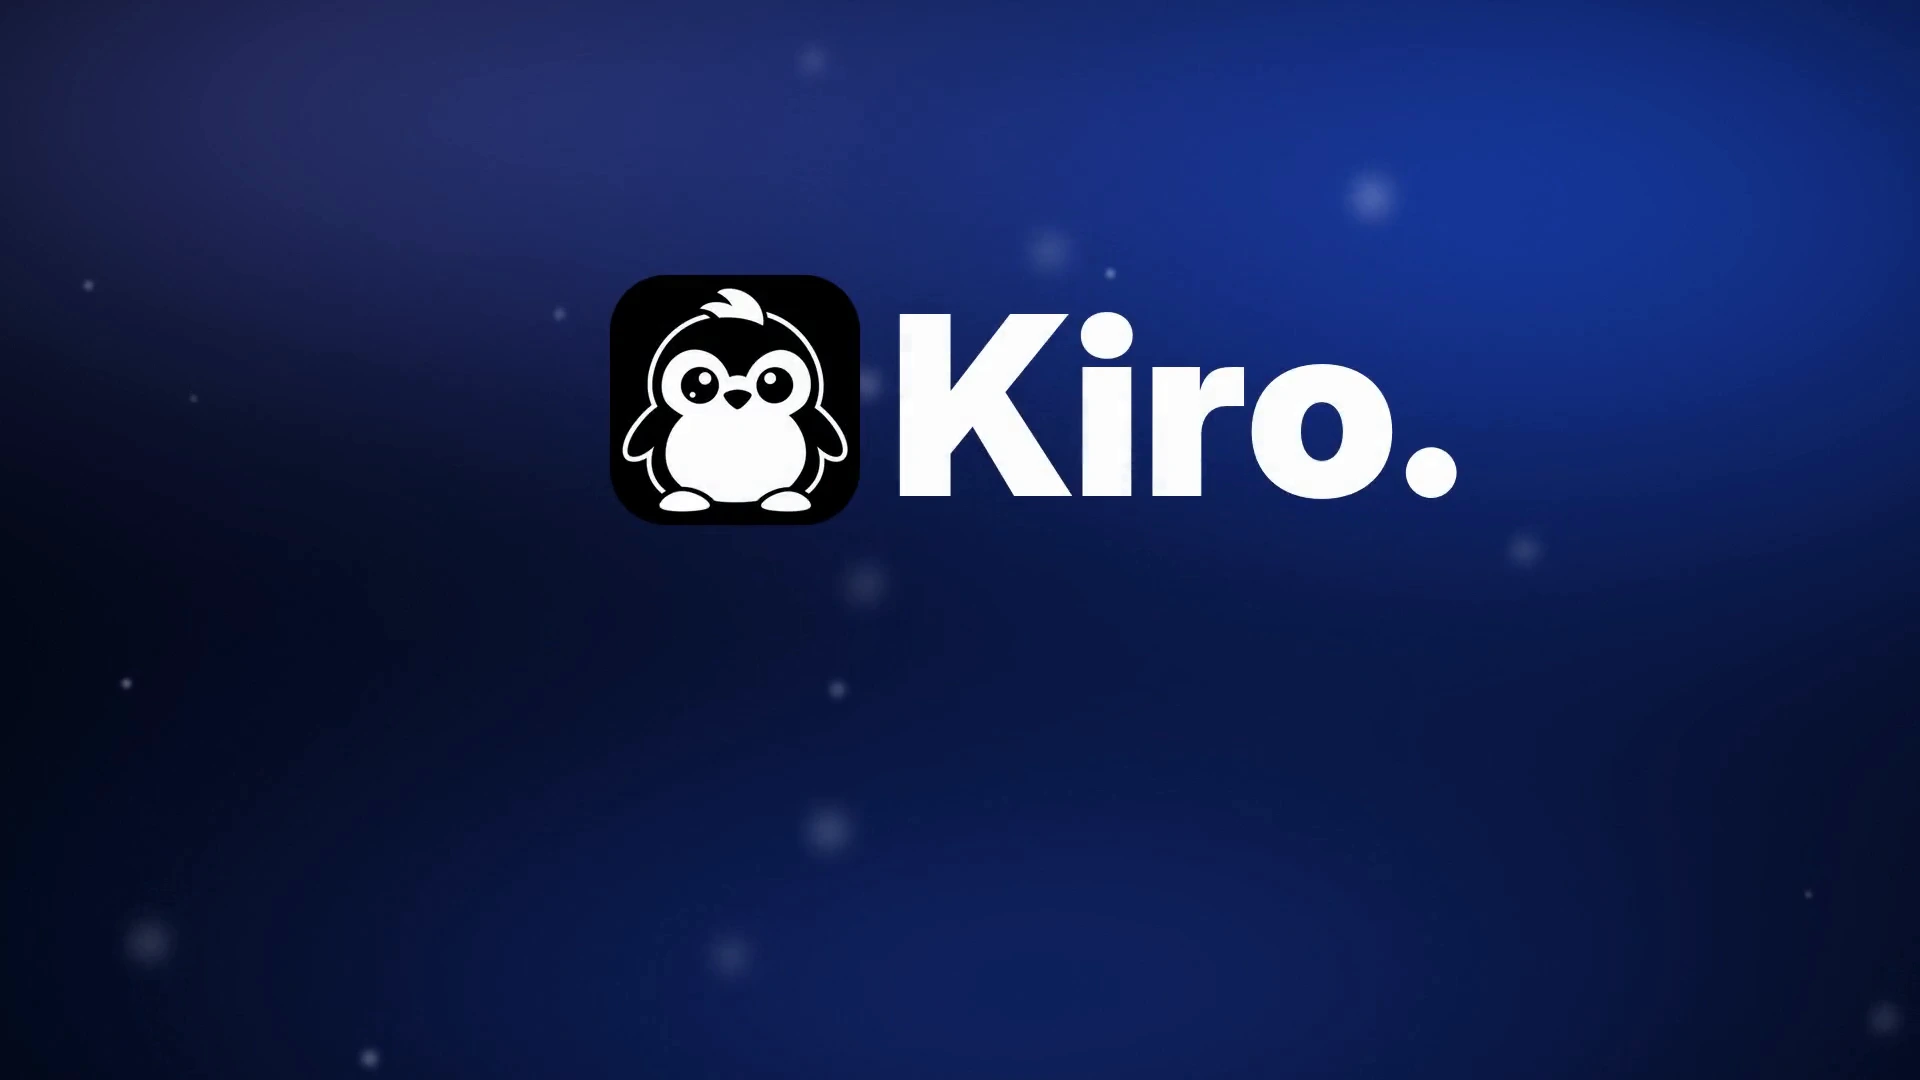
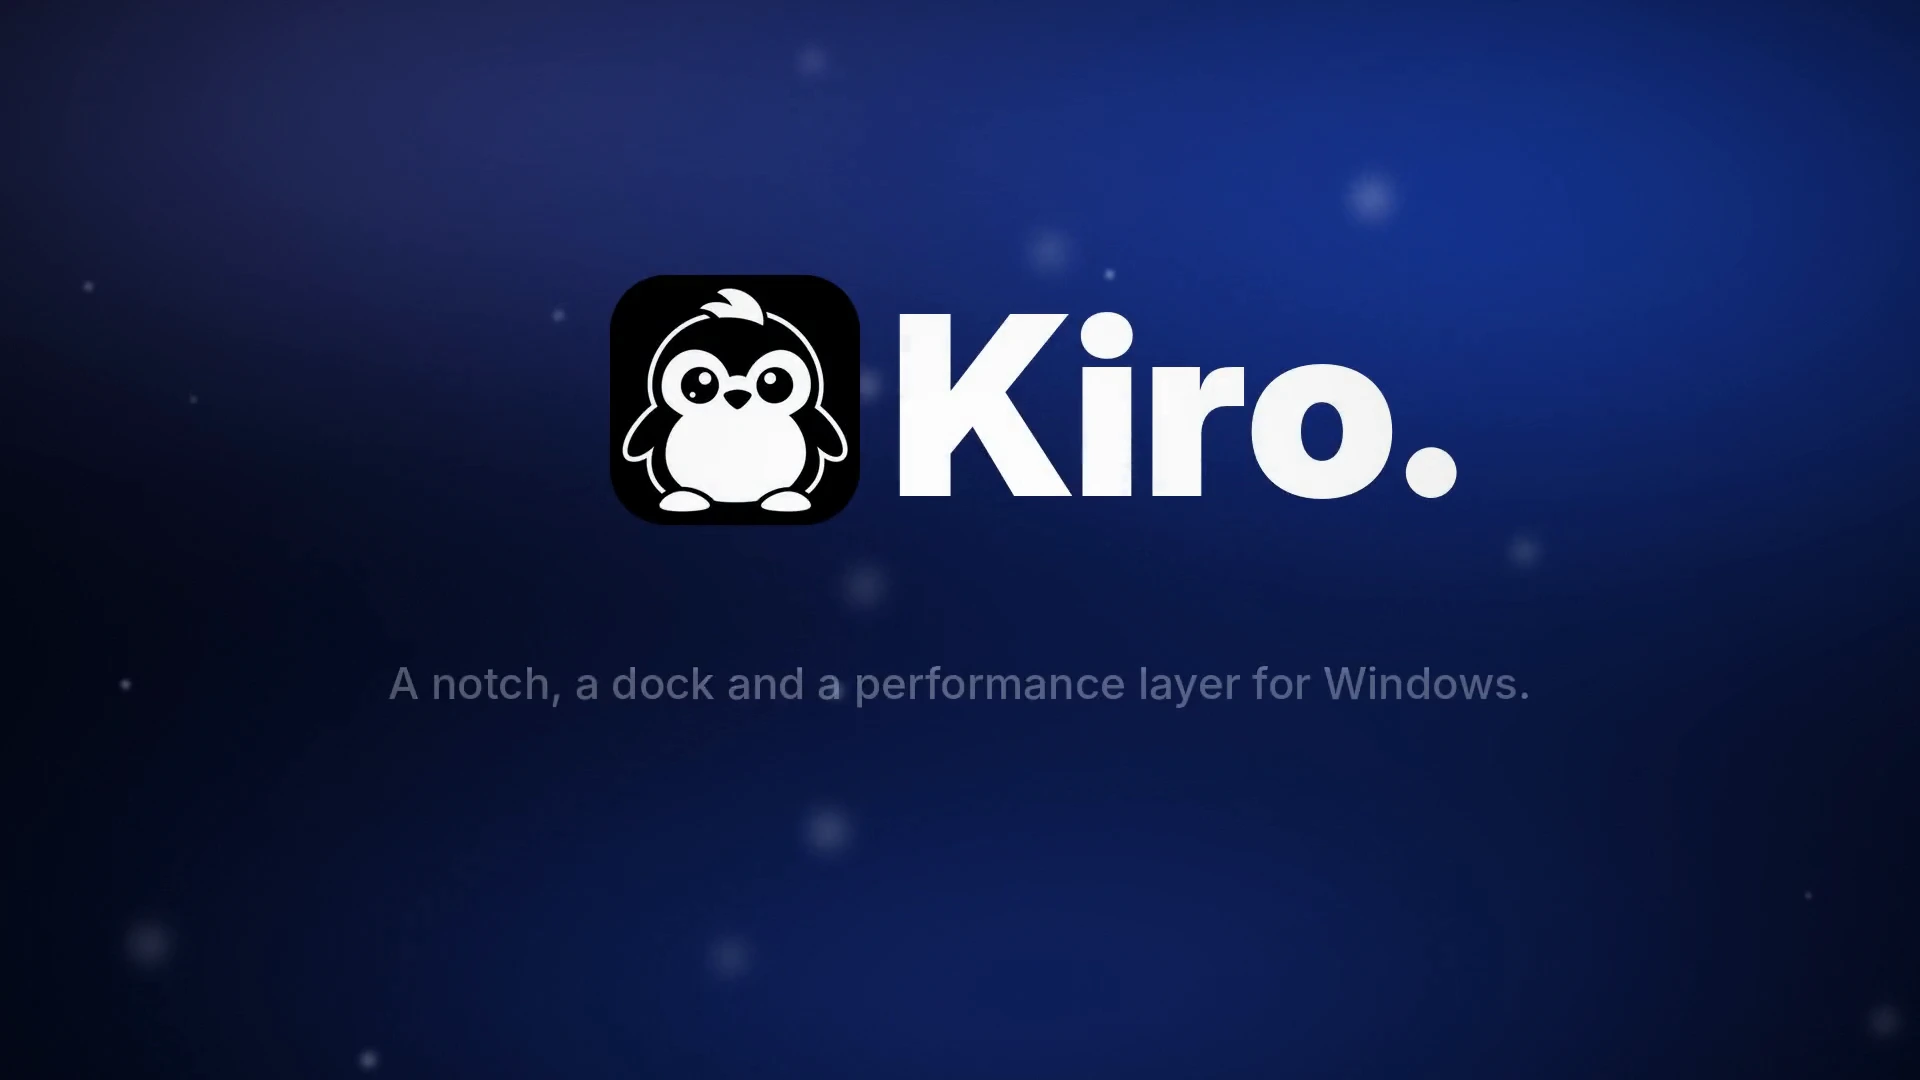
docs: use a centred cover frame for the promo video

Changed region(s): [[0.1875, 0.6111, 0.7812, 0.6722]]

diff --git a/README.md b/README.md
@@ -1,6 +1,6 @@
 <div align="center">
 
-https://github.com/user-attachments/assets/d313a6cb-d5ce-4c8c-9bc0-032d36cea3c6
+https://github.com/user-attachments/assets/ae1fce10-1030-4fee-9372-62e09008d751
 
 <br />
 
